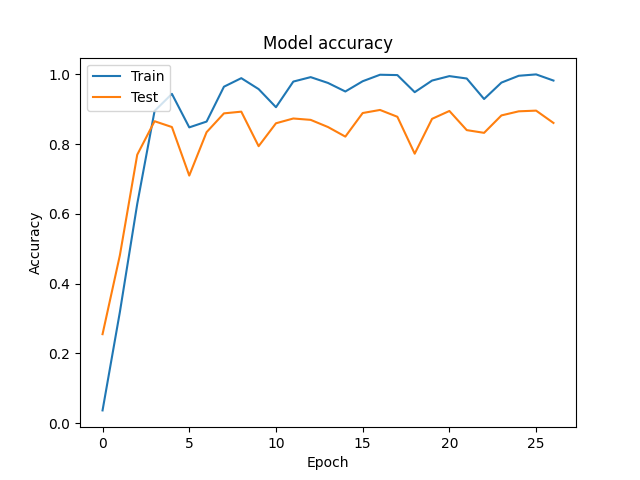
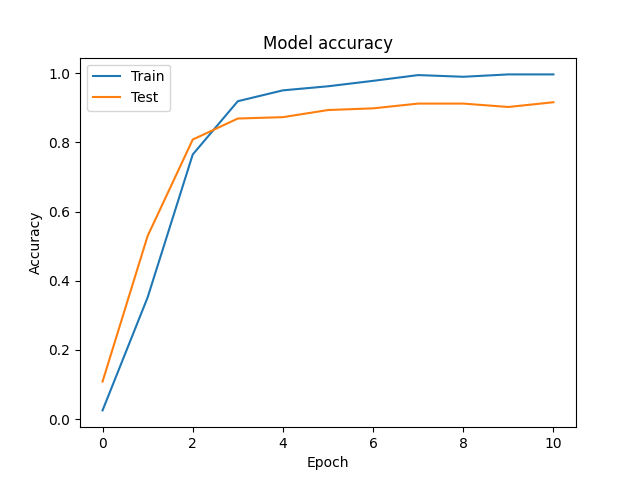
wip

diff --git a/visualize.py b/visualize.py
@@ -12,6 +12,7 @@ from tensorflow.keras.models import Model
 from processing import Processing
 from mlxtend.plotting import plot_confusion_matrix
 from sklearn.metrics import confusion_matrix
+from sklearn.metrics import classification_report
 
 
 
@@ -74,6 +75,9 @@ class GradCAM:
 	def overlay_heatmap(self, heatmap, image, alpha):
 		
 		jet_heatmap = np.uint8(cm.jet(heatmap)[..., :3] * 255)
+		image = np.uint8(image)
+		print(image.shape)
+		print(jet_heatmap.shape)
 		output = cv2.addWeighted(image, alpha, jet_heatmap, 1 - alpha, 0)
 		return (jet_heatmap, output)
 
@@ -106,6 +110,33 @@ class SaliencyMap:
 			jet_saliency = np.uint8(cm.jet(smap[0])[..., :3] * 255)
 			return jet_saliency
 
+
+def plot_cm(cm, zero_diagonal=False, labels=None):
+	"""Plot a confusion matrix."""
+	n = len(cm)
+	if zero_diagonal:
+		for i in range(n):
+			cm[i][i] = 0
+	size = int(n / 4.)
+	fig = plt.figure(figsize=(size, size), dpi=80, )
+	plt.clf()
+	ax = fig.add_subplot(111)
+	ax.set_aspect(1)
+	if labels is None:
+		labels = [i for i in range(len(cm))]
+	x = [i for i in range(len(cm))]
+	plt.xticks(x, labels, rotation='vertical')
+	y = [i for i in range(len(cm))]
+	plt.yticks(y, labels)  # , rotation='vertical'
+	res = ax.imshow(np.array(cm), cmap=plt.cm.viridis, interpolation='nearest')
+	width, height = cm.shape
+
+	#divider = make_axes_locatable(ax)
+	#cax = divider.append_axes("right", size="5%", pad=0.5)
+	plt.colorbar(res)
+
+	plt.show()
+
 if __name__ == '__main__':
 	args = parse_arguments()
 	config = utils.read_configuration(args.config)
@@ -116,7 +147,7 @@ if __name__ == '__main__':
 
 	
 
-	class_model = models.Inceptionv3(0.5)
+	class_model = models.Efficientnetb4(0.5)
 	model = class_model.get_model()
 	model.load_weights('output/checkpoints/{}-loss.h5'.format(type(class_model).__name__.lower()))
 	#model.layers[-1].activation = None
@@ -126,24 +157,24 @@ if __name__ == '__main__':
 	target_size = class_model.size
 
 	p = Processing(target_size=target_size,
-                        batch_size=None,
+                        batch_size=1,
                         config=config,
                         preprocessor=preprocessor)
 	
-	train_preprocessed, validation_preprocessed, test_preprocessed  = p.get_dataset()
+	test_preprocessed  = p.from_folder('./image')
 
+	image, label = test_preprocessed.__getitem__(2)
 
-	true_categories = tf.concat([y for x, y in test_preprocessed], axis=0)
+	
+	img = image[0]
+	#img_path = utils.get_path('./image/81/image.jpg')
+	#image = cv2.imread(img_path)	
+	#image = cv2.cvtColor(image, cv2.COLOR_BGR2RGB)
+	#image = cv2.resize(image, (target_size, target_size))
+	#image = tf.expand_dims(image, axis=-1)
+	#image = tf.divide(image, 255)
+	#image = tf.reshape(image, [1, target_size, target_size, 3])
 
-	print(true_categories)
-
-	img_path = utils.get_path('./image.jpg')
-	image = cv2.imread(img_path)	
-	image = cv2.cvtColor(image, cv2.COLOR_BGR2RGB)
-	image = cv2.resize(image, (target_size, target_size))
-	image = tf.expand_dims(image, axis=-1)
-	image = tf.divide(image, 255)
-	image = tf.reshape(image, [1, target_size, target_size, 3])
 
 	top = 4
 	predictions = model.predict(image)[0]
@@ -151,45 +182,47 @@ if __name__ == '__main__':
 	#	print('{}({}): {}'.format(utils.LABELS[i], i+1, predictions[i]))
 	indexes = np.argpartition(predictions, -top)[-top:]
 	indexes = indexes[np.argsort(predictions[indexes])]
+	print(indexes)
 	for i in indexes:
-		print('{}({}): {}'.format(utils.LABELS[i], i+1, predictions[i]))
+		print('{}({}): {}'.format(utils.LABELS[i], i, predictions[i]))
 
 	icam = GradCAM(model, np.argmax(predictions), None)
 	heatmap = icam.compute_heatmap(image)
 	heatmap = cv2.resize(heatmap, (target_size, target_size))
 
-	smap = SaliencyMap().get_saliency_map(model, image, np.argmax(predictions)) 
+	smap = SaliencyMap().get_saliency_map(model, tf.expand_dims(img, axis=0), np.argmax(predictions)) 
 
-	image = cv2.imread(img_path)
-	image = cv2.resize(image, (target_size, target_size))
-	image = cv2.cvtColor(image, cv2.COLOR_BGR2RGB)
+	#image = cv2.imread(img_path)
+	#image = cv2.resize(image, (target_size, target_size))
+	#img = cv2.cvtColor(image, cv2.COLOR_BGR2RGB)
 
-
-	(heatmap, output) = icam.overlay_heatmap(heatmap, image, 0.4)
-
-	
-
-	Y_test_pred = model.predict(test_preprocessed)
-	y_test_pred = Y_test_pred.argmax(1)
-	cm = confusion_matrix(true_categories, y_test_pred)
-	fig, ax = plot_confusion_matrix(conf_mat=cm, figsize=(20,20), colorbar=True)
-	#plt.xticks(np.arange(50), np.arange(1, 51))
-	#plt.yticks(np.arange(50), np.arange(1, 51))
-	plt.show()
+	(heatmap, output) = icam.overlay_heatmap(heatmap, img, 0.4)
 
 
 	fig, ax = plt.subplots(1, 3)
 	fig.set_size_inches(20,20)
 
 	ax[0].imshow(heatmap)
-	ax[1].imshow(image)
+	ax[1].imshow(np.uint8(img))
 	ax[2].imshow(output)
-	#ax[3].imshow(smap)
 	plt.show()
 
 
 	fig, axes = plt.subplots(1,2,figsize=(14,5))
-	axes[0].imshow(image)
-	i = axes[1].imshow(smap,alpha=0.8)
+	axes[0].imshow(np.uint8(img))
+	i = axes[1].imshow(smap, alpha=0.8)
 	fig.colorbar(i)
 	plt.show()
+
+	p = Processing(target_size=target_size,
+                        batch_size=16,
+                        config=config,
+                        preprocessor=preprocessor)
+
+	_, _, test_preprocessed  = p.get_dataset()
+
+	Y_test_pred = model.predict(test_preprocessed)
+	y_test_pred = Y_test_pred.argmax(1)
+	cm = confusion_matrix(test_preprocessed.classes, y_test_pred)
+	plot_cm(cm)
+	print(classification_report(y_test_pred, test_preprocessed.classes))

diff --git a/processing.py b/processing.py
@@ -43,9 +43,16 @@ class Processing:
 
         test_generator = self.test_datagen.flow_from_directory(directory=self.config['paths']['data']['test'],
                                                             batch_size=self.batch_size,
-                                                            shuffle=True,
+                                                            shuffle=False,
                                                             target_size=(self.target_size, self.target_size),
                                                             class_mode=self.config['training']['mode'])
 
 
         return train_generator, valid_generator, test_generator
+
+    def from_folder(self, path):
+        return self.test_datagen.flow_from_directory(directory=path,
+                                                            batch_size=self.batch_size,
+                                                            shuffle=False,
+                                                            target_size=(self.target_size, self.target_size),
+                                                            class_mode=self.config['training']['mode'])

diff --git a/trainer.py b/trainer.py
@@ -121,7 +121,7 @@ if __name__ == '__main__':
                     step_size=stepSize)
 
     # Define the Early Stopping strategy
-    es = EarlyStopping(monitor='val_loss', 
+    es = EarlyStopping(monitor='val_acc', 
                         patience=10, 
                         mode='min', 
                         #restore_best_weights=True, 
